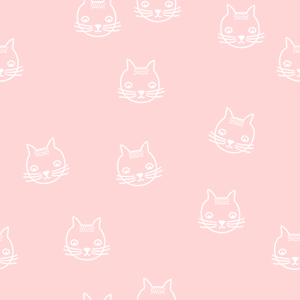
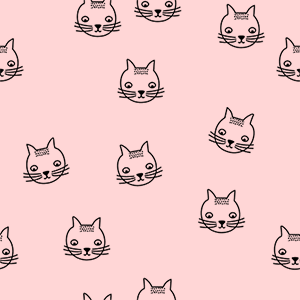
fin variation

diff --git a/css/style.css b/css/style.css
@@ -731,7 +731,7 @@ a:hover, a:active {
 --------------------------------------------------------------*/
 .menu a {
   text-decoration: none;
-  color: white;
+  color: black;
   margin-top: 2vh;
   margin-bottom: 2vh;
   font-size: 1rem;
@@ -741,8 +741,8 @@ a:hover, a:active {
 }
 
 .menu a:hover {
-  background-color: white;
-  color: black;
+  background-color: black;
+  color: #ffd6d6;
 }
 
 /*--------------------------------------------------------------
@@ -892,16 +892,16 @@ body {
 
 #header-left {
   width: 50vw;
-  border-top: 1px solid white;
-  border-bottom: 1px solid white;
+  border-top: 1px solid black;
+  border-bottom: 1px solid black;
 }
 
 #header-right {
   width: 50vw;
-  border-left: 1px solid white;
+  border-left: 1px solid black;
   background-image: url("../../image/chat_rose.png");
-  border-top: 1px solid white;
-  border-bottom: 1px solid white;
+  border-top: 1px solid black;
+  border-bottom: 1px solid black;
 }
 
 .footer {

diff --git a/sass/layout/_layout.scss b/sass/layout/_layout.scss
@@ -104,16 +104,16 @@ body {
 
 #header-left{
 	width: 50vw;
-	border-top: 1px solid white;
-	border-bottom: 1px solid white;
+	border-top: 1px solid black;
+	border-bottom: 1px solid black;
 }
 
 #header-right{
 	width: 50vw;
-	border-left: 1px solid white;
+	border-left: 1px solid black;
 	background-image: url("../../image/chat_rose.png");
-	border-top: 1px solid white;
-	border-bottom: 1px solid white;
+	border-top: 1px solid black;
+	border-bottom: 1px solid black;
 }
 
 .footer{

diff --git a/sass/navigation/_menus.scss b/sass/navigation/_menus.scss
@@ -1,6 +1,6 @@
 .menu a {
 	text-decoration: none;
-	color: white;
+	color: black;
 	margin-top: 2vh;
 	margin-bottom: 2vh;
 	font-size: 1rem;
@@ -9,6 +9,6 @@
 }
 
 .menu a:hover{
-	background-color: white;
-	color: black;
+	background-color: black;
+	color: #ffd6d6;
 }
